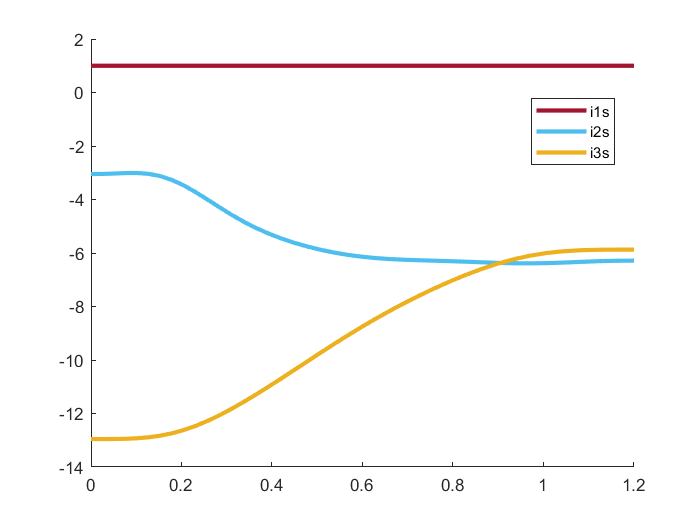
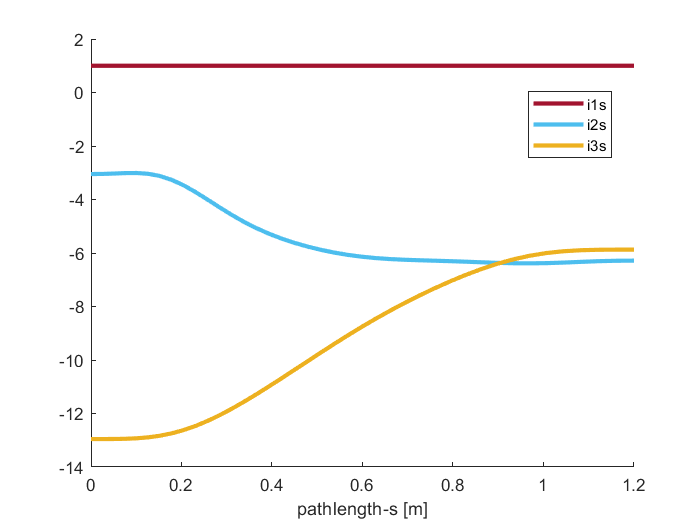
added figures

Changed region(s): [[0.75, 0.1829, 0.87, 0.3048], [0.42, 0.9448, 0.63, 1.0]]

diff --git a/exC7PathLenCoordinate/ex_C3_path_def.m b/exC7PathLenCoordinate/ex_C3_path_def.m
@@ -1,7 +1,7 @@
 clear all;
 close all;
 clc;
-% addpath('C:\Users\Wolf/casadi-windows-matlabR2016a-v3.4.5')
+addpath('C:\Users\Wolf/casadi-windows-matlabR2016a-v3.4.5')
 import casadi.*
 
 %% frenet serret invariants as function of s
@@ -223,6 +223,7 @@ plot(s(1:end-1), ones(1,length(u_full(1,:))), 'Color', [0.6350, 0.0780, 0.1840],
 plot(s(1:end-1), u_full(2,:), 'Color', [0.3010, 0.7450, 0.9330], 'LineWidth',2.5)
 plot(s(1:end-1), u_full(3,:), 'Color', [0.9290, 0.6940, 0.1250], 'LineWidth',2.5)
 legend('i1s', 'i2s', 'i3s')
+xlabel('pathlength-s [m]')
 xlim([s(1) s(end-1)])
 
 save('ExC3','U_sol');

diff --git a/exC7PathLenCoordinate/ex_C4_path_def.m b/exC7PathLenCoordinate/ex_C4_path_def.m
@@ -133,6 +133,7 @@ plot(s2(1:end-1), ones(1,length(U_ref(:,1))), 'Color', [0.3010, 0.7450, 0.9330],
 plot(s1(1:end-1), u_new(:,2:3), 'Color', [0.6350, 0.0780, 0.1840], 'LineWidth',2.0)
 plot(s2(1:end-1), U_ref(:,2:3), 'Color', [0.3010, 0.7450, 0.9330], 'LineWidth',2.0)
 legend('new trajectory', 'reference')
+xlabel('pathlength-s [m]')
 xlim([s1(1) s1(end-1)])
 
 
